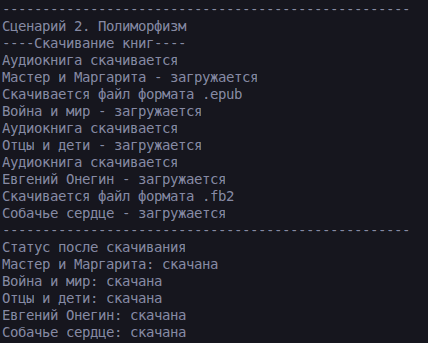
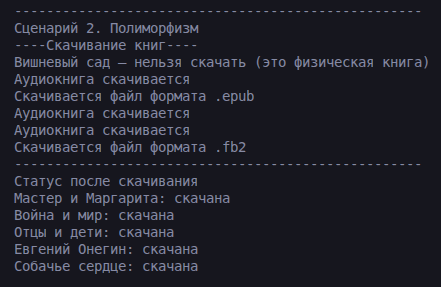
lab03 - demo, img

diff --git a/src/lab03/demo.py b/src/lab03/demo.py
@@ -27,9 +27,7 @@ print("---------------------------------------------------")
 print("Сценарий 2. Полиморфизм")
 print("----Скачивание книг----")
 for book in lib.get_all():
-    if hasattr(book, 'download'):
-        book.download()
-        print(f"{book.title} - загружается")
+    book.download()  
 
 print("---------------------------------------------------")
 
